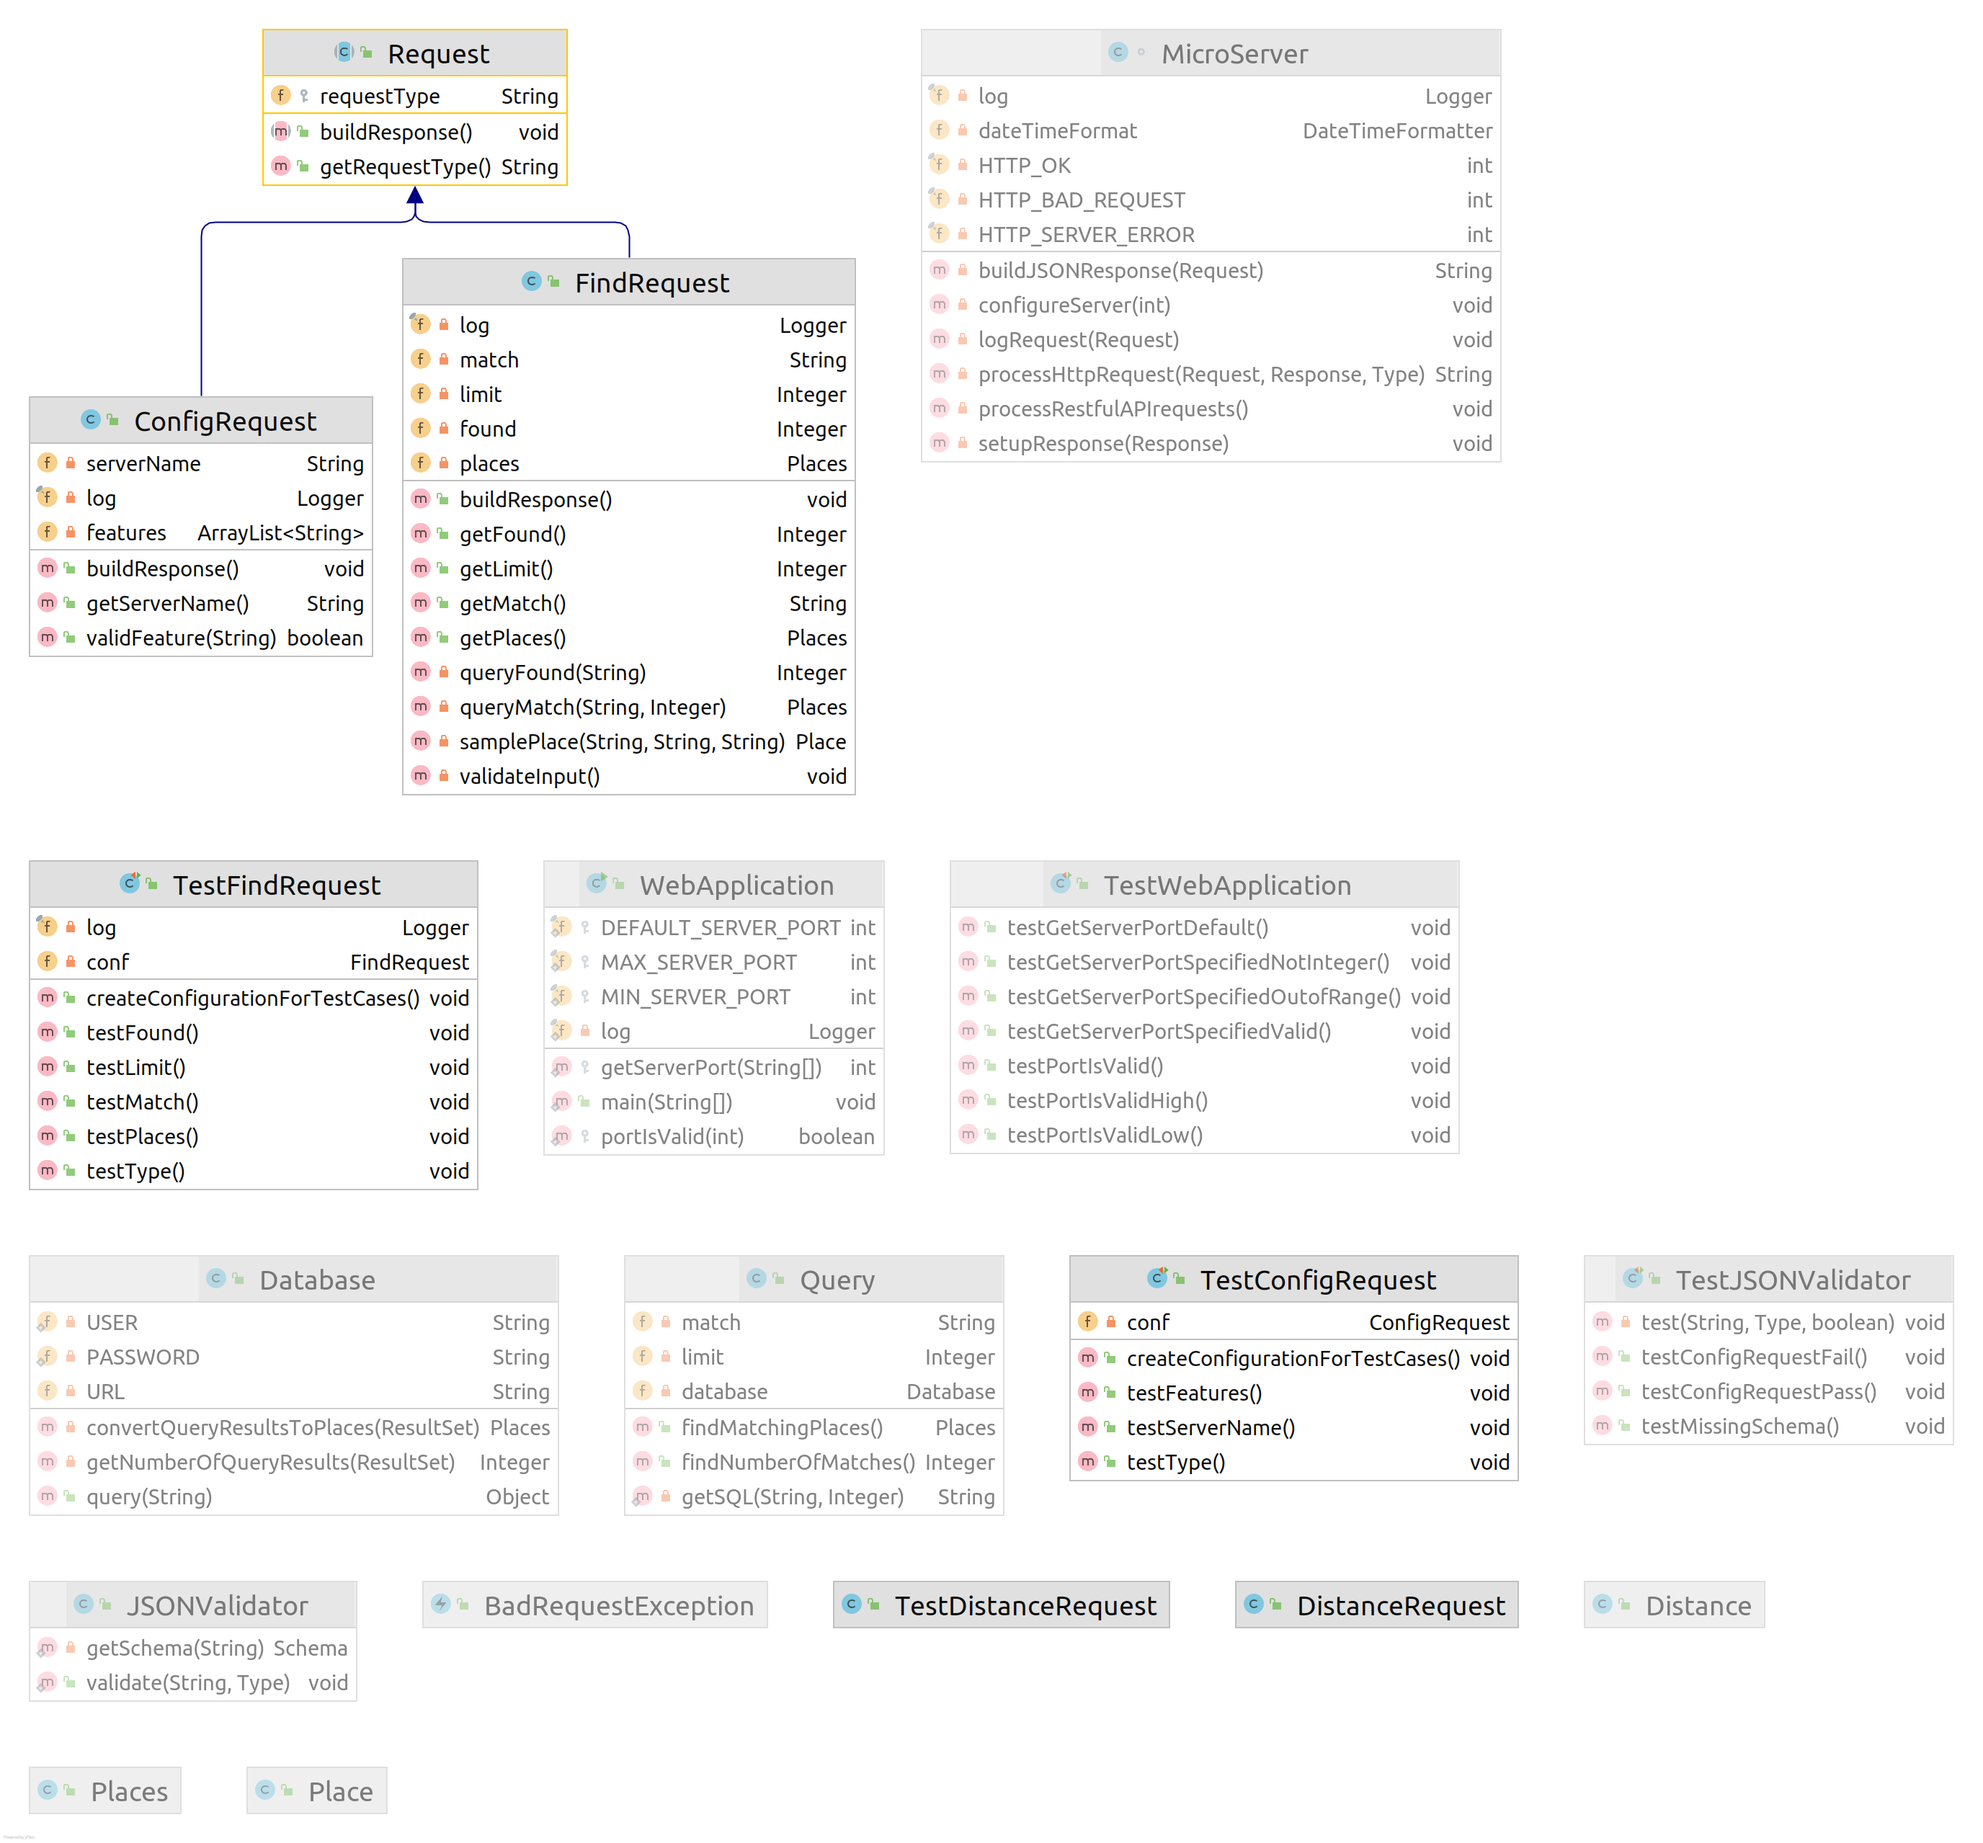
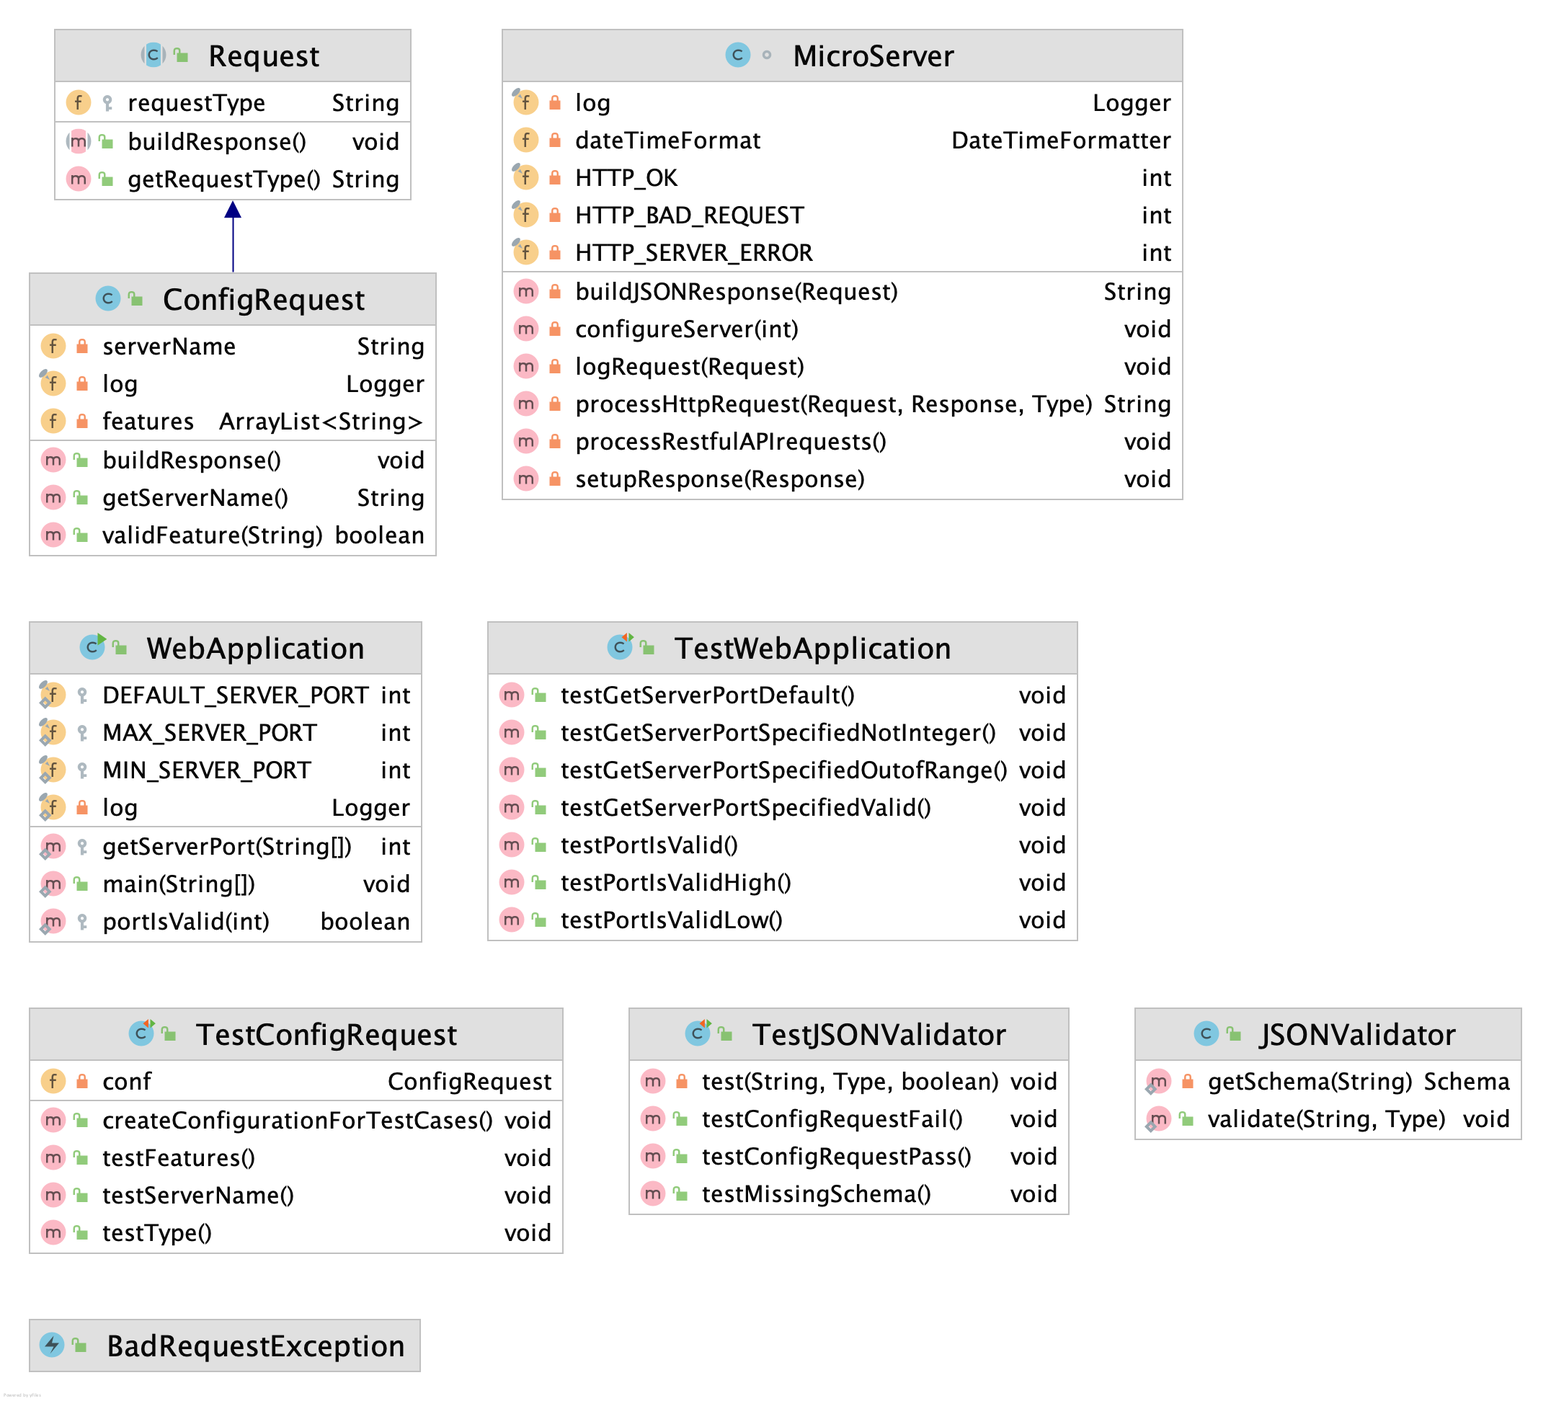
fixed design.md

Changed region(s): [[0.0, 0.0, 0.9963, 0.9877], [0.8095, 0.8642, 0.8717, 0.8951], [0.7161, 0.5556, 0.7472, 0.6173]]

diff --git a/reports/design.md b/reports/design.md
@@ -99,20 +99,11 @@ The classes in blue represent the classes specific to this application.
 * ConfigRequest is a specific request that allows the server to respond with its configuration to allow interoperability between clients and servers. 
 * Request defines the basic components of all requests.
 * BadReqeustException allows us to distinguish bad requests from other types of exceptions that may occur.
-* Place is a class that extends a hashmap of two strings
-* Places is a class that extends arraylist of type place
-* FindRequest is a specific request that allows the server to respond with a query from the database containing the number of matches and a list of Places
-* Query takes the parameters given to FindRequest and creates a search for the database
-* Database creates a connection to the database, sends the query, and then processes and returns results
-* DistanceRequest
-* TestDistanceRequest
 
 These test classes provide automated tests for unit testing.
 * TestWebApplication
 * TestConfigRequest
 * TestJSONValidator
-* TestFindRequest
-* TestDistanceRequest
 
 # Sprint 1
 
